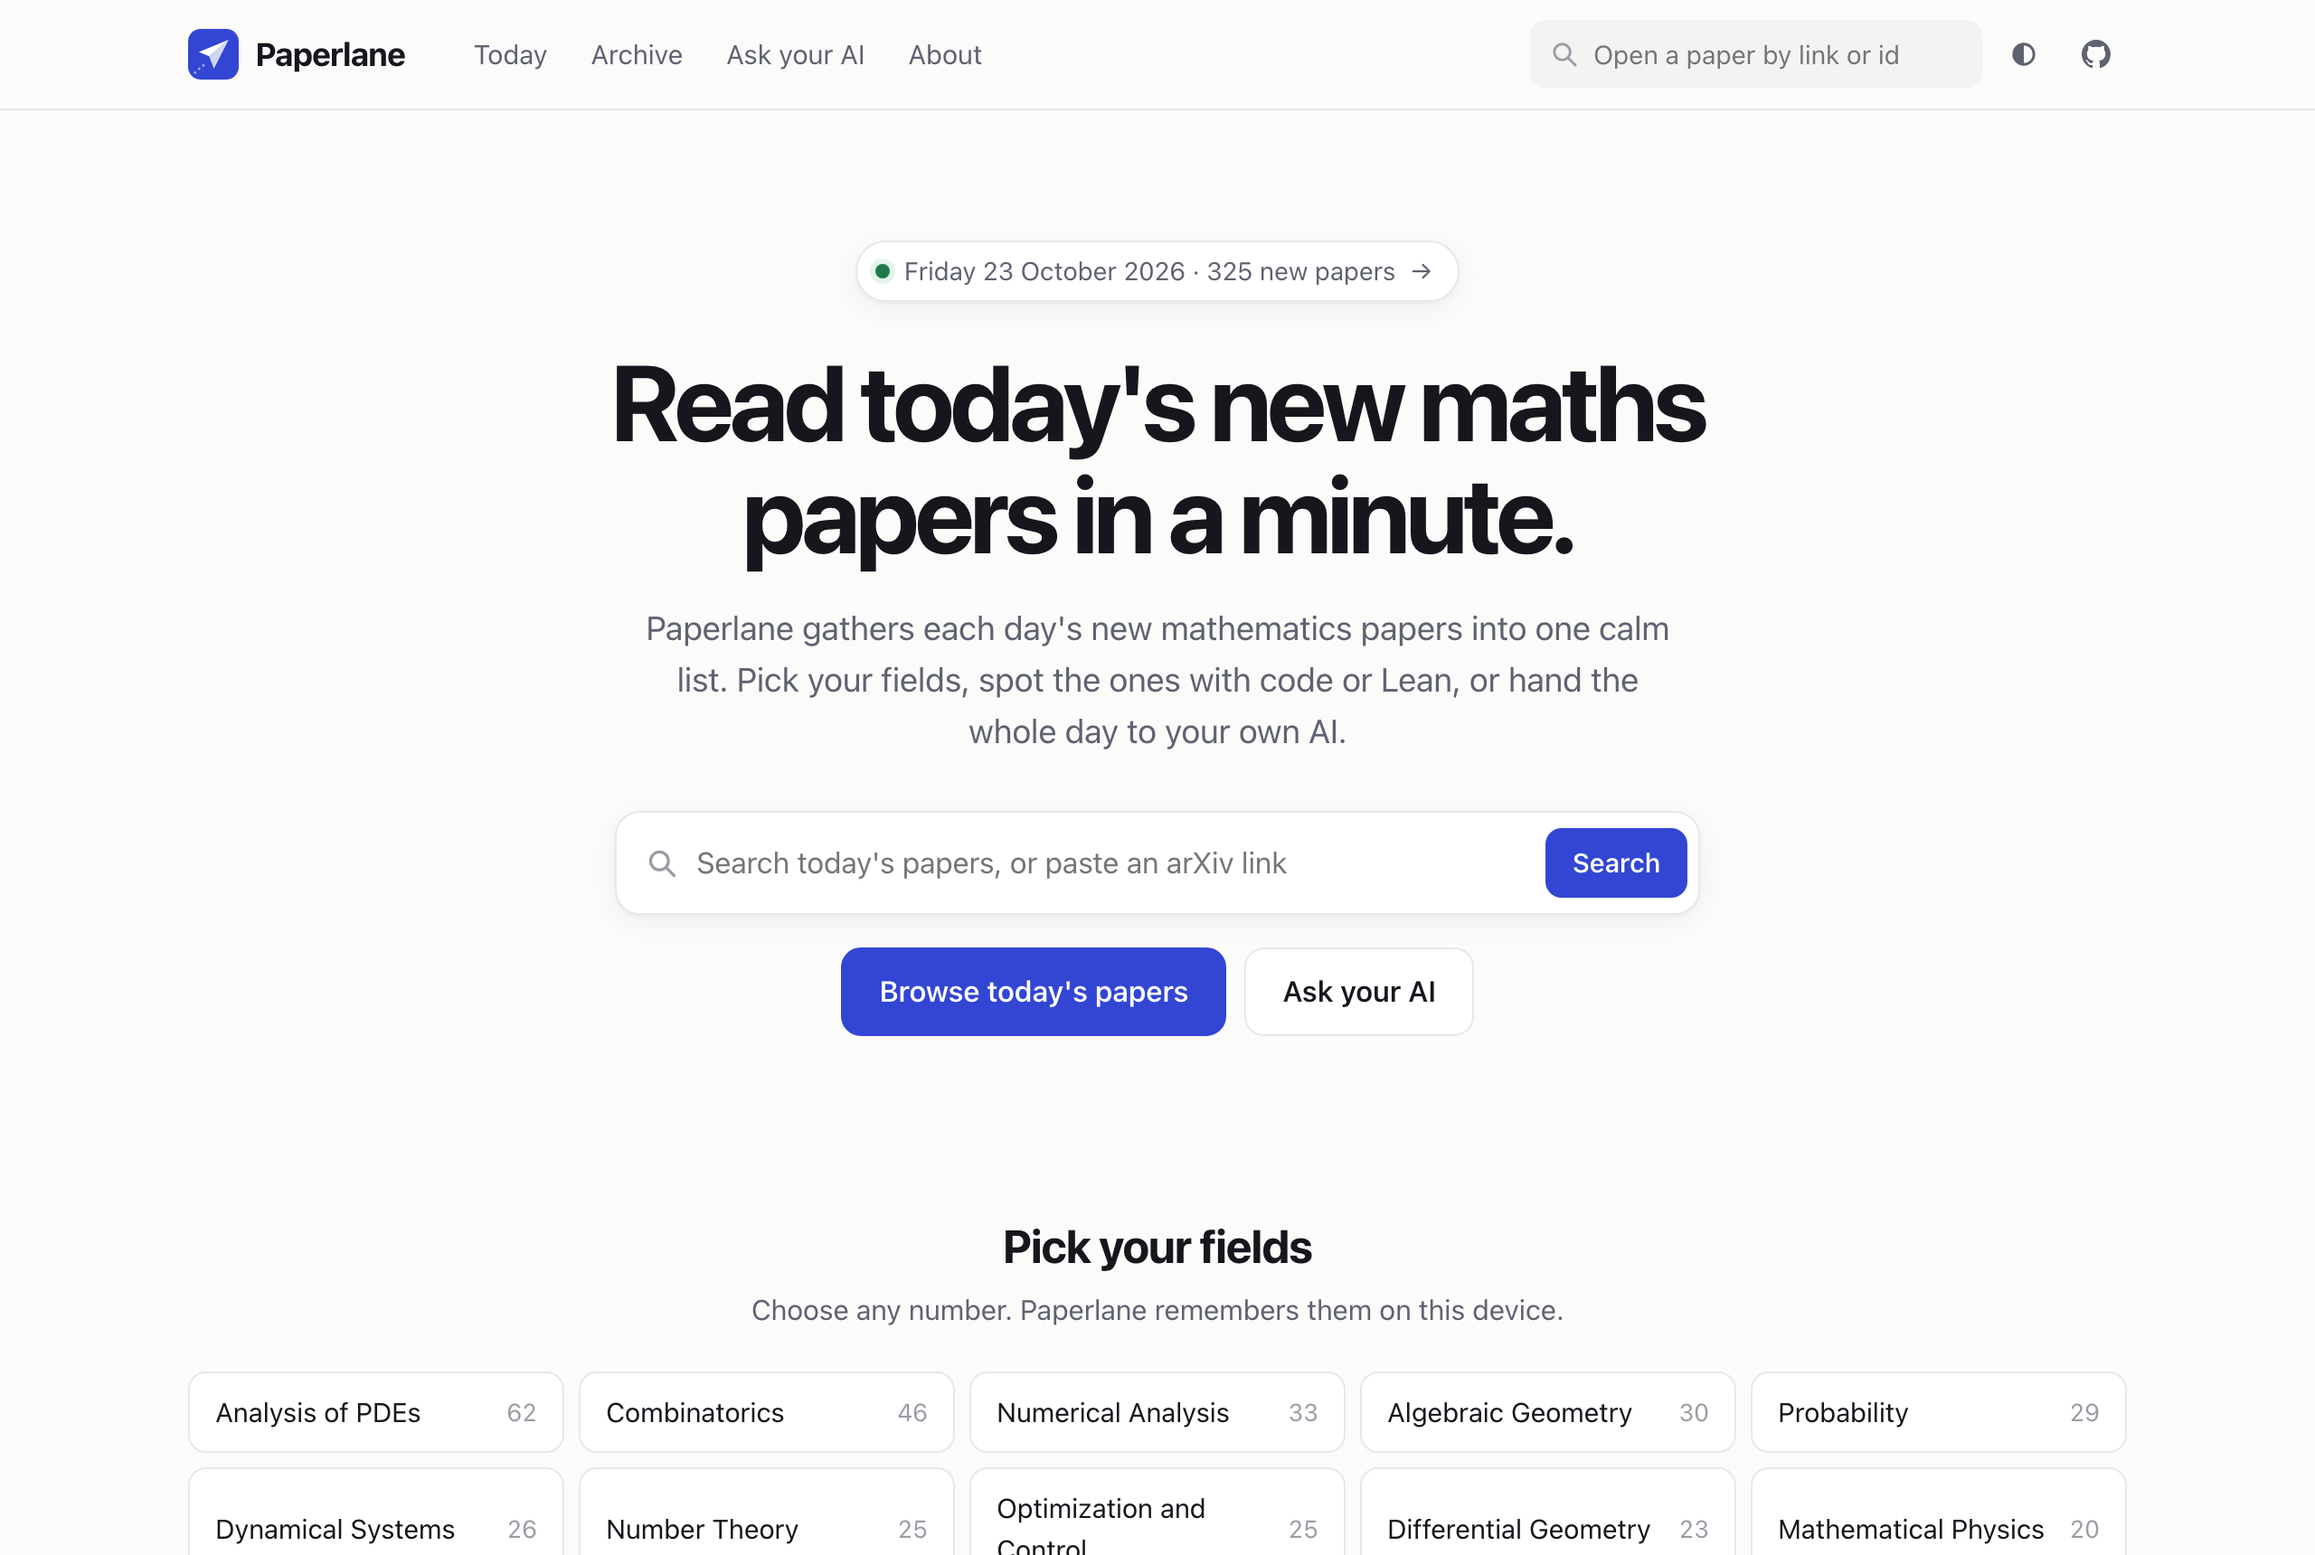
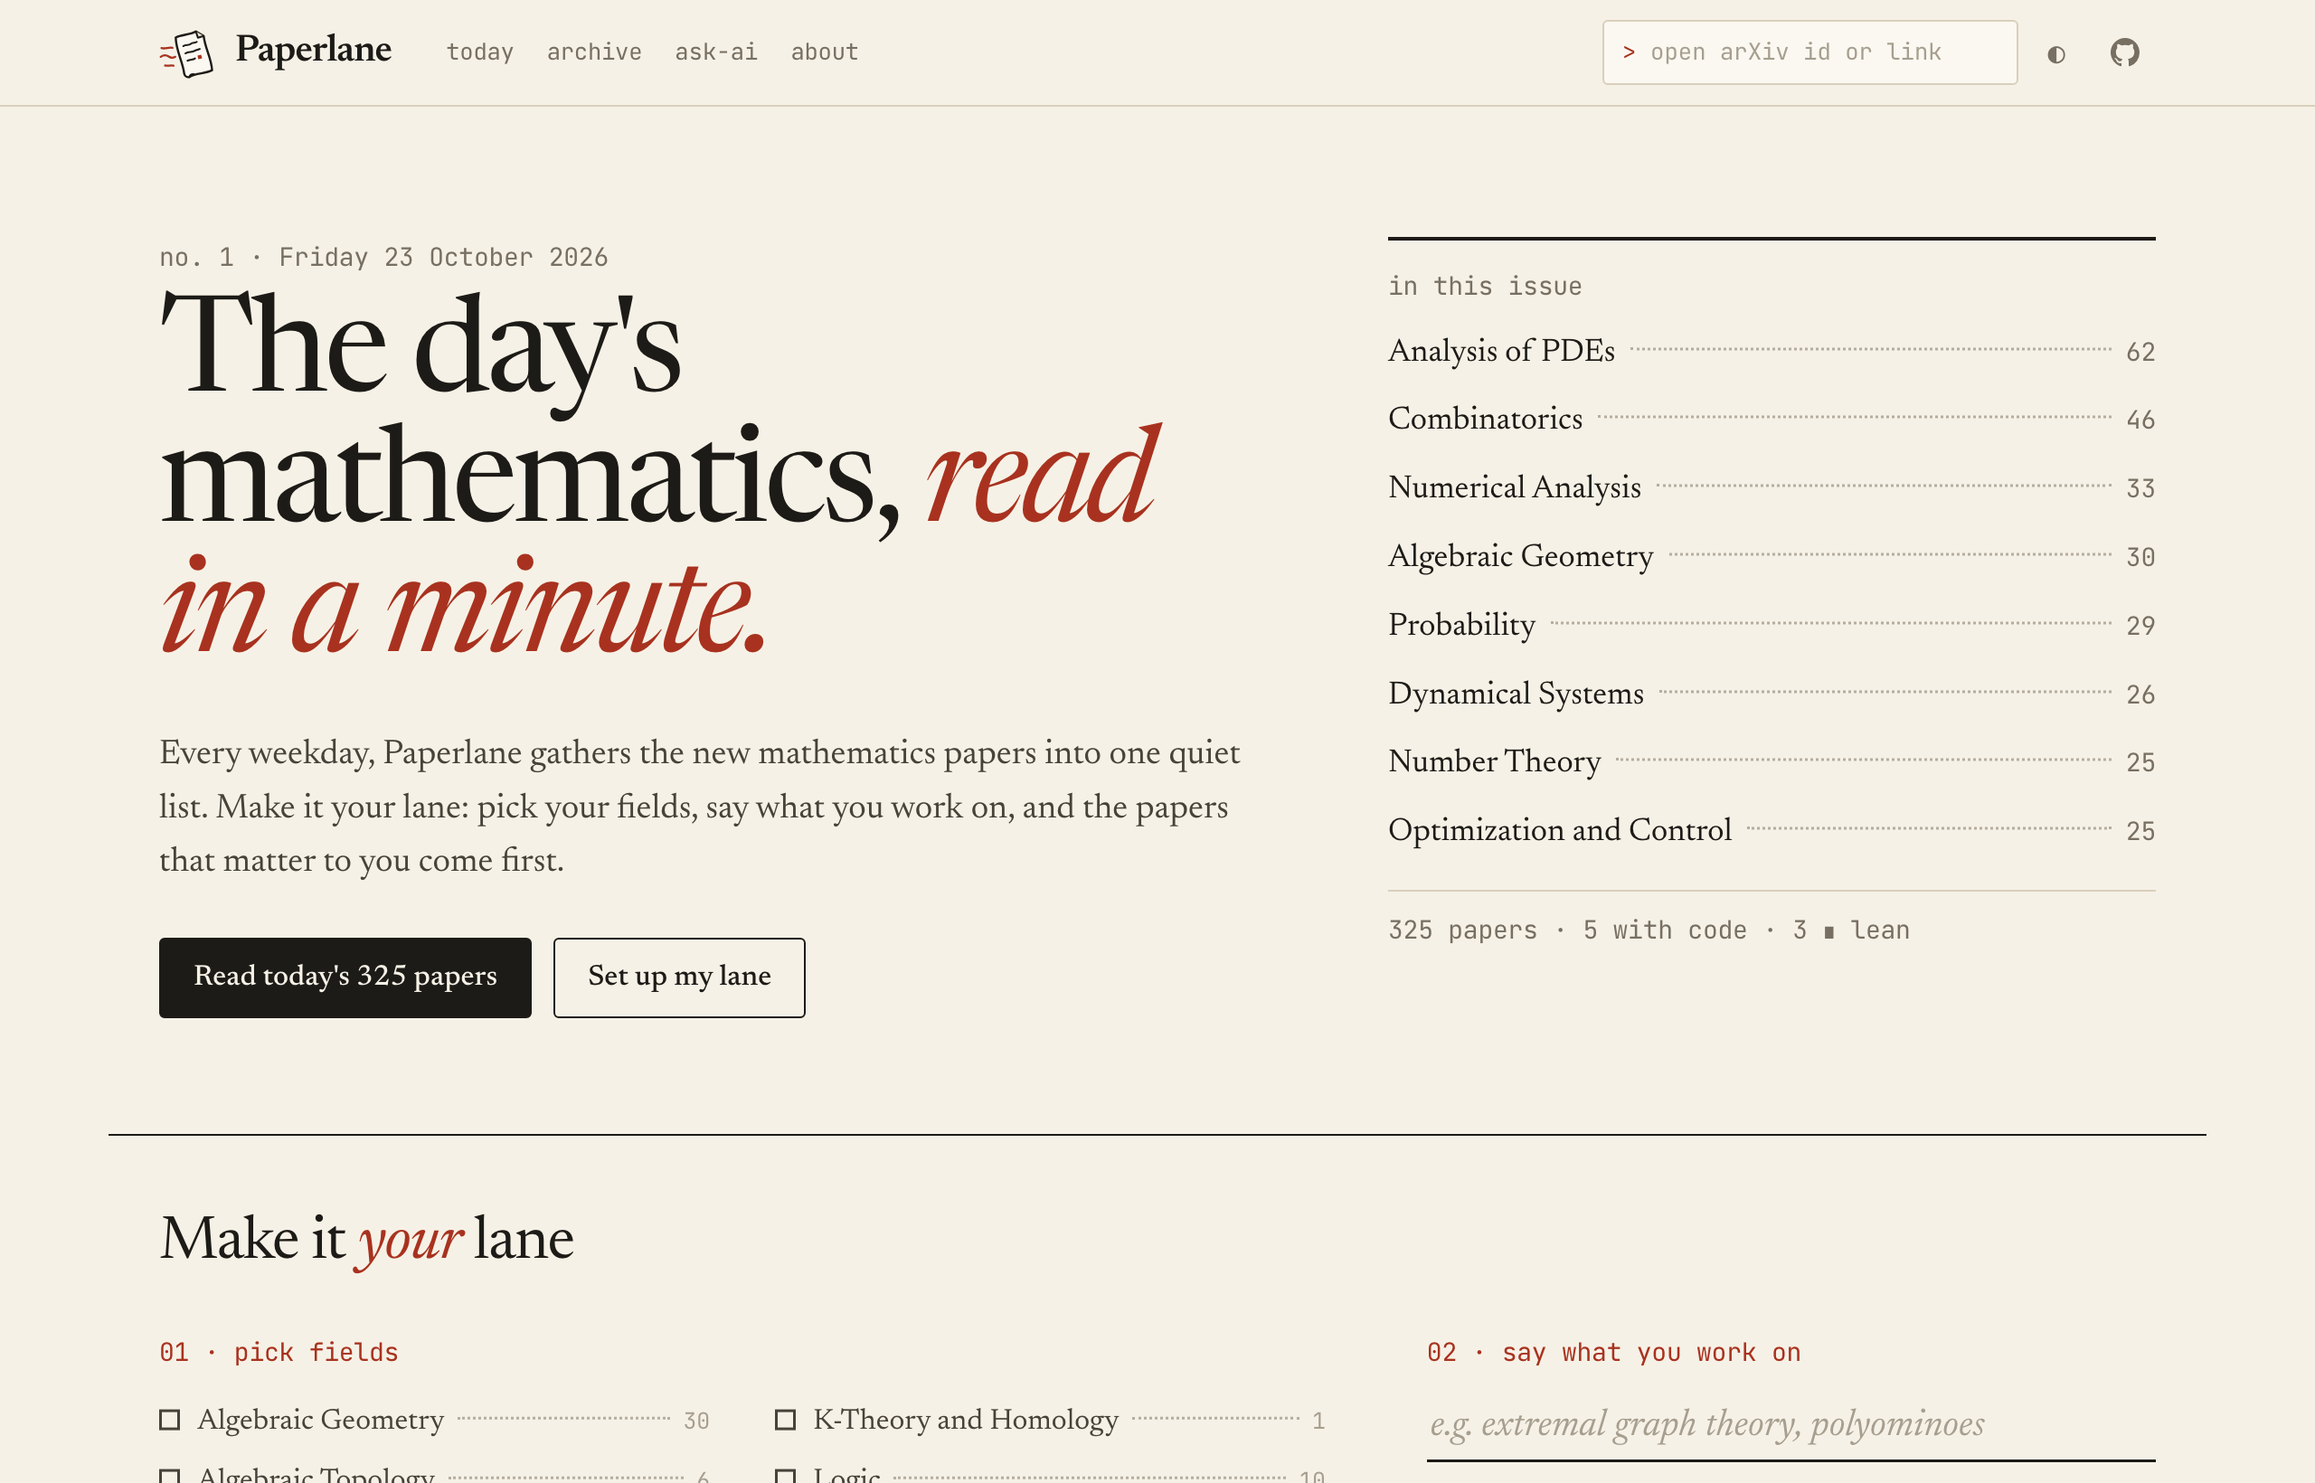
docs: show the new design and explain the ordering in the README

diff --git a/README.md b/README.md
@@ -1,68 +1,72 @@
 <p align="center">
-  <img src="docs/banner.svg" alt="Paperlane: new maths papers every day, made for you and your AI agent." width="100%">
+  <img src="docs/banner.svg" alt="Paperlane. The day's mathematics, read in a minute." width="100%">
 </p>
 
 <p align="center">
-  <a href="https://pragyaangaur.github.io/Paperlane/"><b>Open Paperlane →</b></a>
+  <a href="https://pragyaangaur.github.io/Paperlane/"><b>Read today's issue</b></a>
   &nbsp;·&nbsp;
-  <a href="https://pragyaangaur.github.io/Paperlane/today.html">Today's papers</a>
+  <a href="https://pragyaangaur.github.io/Paperlane/#lane">Set up your lane</a>
   &nbsp;·&nbsp;
-  <a href="https://pragyaangaur.github.io/Paperlane/about.html">About</a>
+  <a href="https://pragyaangaur.github.io/Paperlane/about.html">How it works</a>
 </p>
 
-A few hundred new mathematics papers appear every weekday, and the usual listing is hard to skim. Paperlane puts each day on one calm page. You pick your fields, glance at titles and open only the papers you care about. Every paper is also plain Markdown, so your own AI assistant can read the whole day for you. It is free and needs no account.
+A few hundred new mathematics papers appear every weekday. Paperlane sets each day as one quiet issue, like the contents page of a journal. You pick your fields and say what you work on, and the papers that matter to you come first. Every paper is also plain Markdown, so your own AI assistant can read the whole issue for you. It is free and needs no account.
 
 <p align="center">
-  <img src="docs/home.png" alt="The Paperlane home page with a search box and a grid of fields to pick from" width="88%">
+  <img src="docs/home.png" alt="The Paperlane home page: a journal masthead, today's contents and the lane builder" width="90%">
 </p>
 
-## How it works
+## Make it your lane
 
-1. **Pick your fields.** Choose Combinatorics, Probability or any other field on the home page. Paperlane remembers your choice on your device.
-2. **Skim the list.** Each paper shows only its title, authors and a few tags. Click a paper to read its abstract.
-3. **Go deeper.** Open the PDF, copy the paper's Markdown, or copy a link to share.
+1. **Pick your fields.** Tick Combinatorics, Probability or any other field. Paperlane remembers them on your device.
+2. **Say what you work on.** Type a few phrases such as "graph colouring, random walks".
+3. **Read.** Your papers rise to the top, and under each one Paperlane shows the words that matched.
 
 <p align="center">
-  <img src="docs/today.png" alt="Today's list filtered to papers with Lean, showing a green Lean project tag" width="88%">
+  <img src="docs/lane.png" alt="An issue ranked for graph colouring and random walks, with the matched words highlighted under each paper" width="90%">
 </p>
 
-## What you get
+## How the order works
 
-- **Filters that stay out of the way.** One search box and three buttons sit above the list: Fields, Has code and Lean. Every filtered view has its own link, so you can bookmark it or send it to a colleague.
-- **Code and Lean, spotted for you.** Papers that link to code get a **Code** tag. If the linked repository holds a Lean project, the paper gets a green **✓ Lean project** tag.
-- **Any paper from a link.** Paste an arXiv link or id into the search box at the top of any page, and Paperlane opens that paper with its abstract and a Markdown copy.
-- **Markdown for every paper.** The Markdown button shows a clean copy right under the paper, ready for a chat window or your notes.
-- **Light and dark.** Paperlane follows your system theme, and the switch in the header lets you pick one yourself.
+There are four orders, and the page always says which one is in use.
+
+- **By field** groups papers under their main field, largest field first, with your own fields on top. Inside a field, papers keep the order in which they were submitted.
+- **For me** ranks papers against your interests with BM25, the classic search ranking formula, over titles and abstracts. Titles count twice, exact phrases get a bonus, and British and American spellings match each other. This runs in your browser, and your interests are never sent anywhere.
+- **Newest** puts the latest submissions first.
+- **Shortest** sorts by the page count that the authors give.
+
+Paperlane never ranks a paper by its authors or their reputation.
+
+## Every paper, set like a first page
+
+Click a paper to read its abstract in place, or open its own page. Each page carries the same tags, a PDF link and a Markdown copy that you can paste into a chat.
 
 <table>
   <tr>
-    <td width="68%"><img src="docs/today-dark.png" alt="Paperlane in dark mode, filtered to Combinatorics"></td>
-    <td width="32%"><img src="docs/phone.png" alt="Paperlane on a phone"></td>
+    <td width="70%"><img src="docs/paper-dark.png" alt="A single paper page in the dark theme, set like the first page of a paper"></td>
+    <td width="30%"><img src="docs/phone.png" alt="Paperlane on a phone"></td>
   </tr>
 </table>
-
-## Let your AI pick your papers
-
-Click **Ask your AI** on the site and type what you work on. Paperlane writes a prompt for you to paste into any assistant that can open web pages:
-
-> Read https://pragyaangaur.github.io/Paperlane/latest-titles.md, Paperlane's index of today's new maths papers. My interests are extremal graph theory and polyominoes. Pick the candidates that fit, read their abstracts, and tell me which three papers I should read and why.
-
-Paperlane never ranks papers or scores their authors. Your assistant ranks the day against your own interests. The [About page](https://pragyaangaur.github.io/Paperlane/about.html#agents) lists every file that agents can read, from a one-line-per-paper index to a full JSON feed.
 
 ## What the tags mean
 
 | Tag | Meaning |
 | --- | --- |
-| **Code** | The abstract or comments link to a code host such as GitHub or GitLab |
-| **✓ Lean project** | A linked GitHub repository contains a `lean-toolchain` or `lakefile` file |
-| **Lean** | The paper says it is formalised in Lean, but no Lean repository was found |
-| **v2, v3 …** | The paper is a new version of an older one |
+| `∎ lean` | A linked GitHub repository contains a Lean project (`lean-toolchain` or a `lakefile`) |
+| `□ lean` | The paper says it is formalised in Lean, but no repository was found |
+| `code` | The abstract or comments link to code on GitHub, GitLab or a similar host |
+| `via cs.CC` | A paper from another subject that its authors also listed under mathematics |
+| `v2` | A revised version of an older paper |
 
-Each tag comes from a simple check that anyone can repeat. The Lean project tag shows that a Lean project exists in the repository, and a check that the proof compiles is planned.
+Each tag comes from a simple check that anyone can repeat. A check that Lean proofs actually compile is planned.
+
+## For agents
+
+Press **ask-ai** on the site for a ready prompt, or point an assistant at [`llms.txt`](https://pragyaangaur.github.io/Paperlane/llms.txt). Every issue is published as Markdown, JSON and RSS, and every paper has its own Markdown file.
 
 ## When it updates
 
-A new day appears every Monday to Friday at about 06:00 UTC. Every earlier day stays in the [archive](https://pragyaangaur.github.io/Paperlane/archive.html).
+A new issue appears every Monday to Friday at about 06:00 UTC, and every earlier issue stays in the [archive](https://pragyaangaur.github.io/Paperlane/archive.html).
 
 ## Feedback
 
